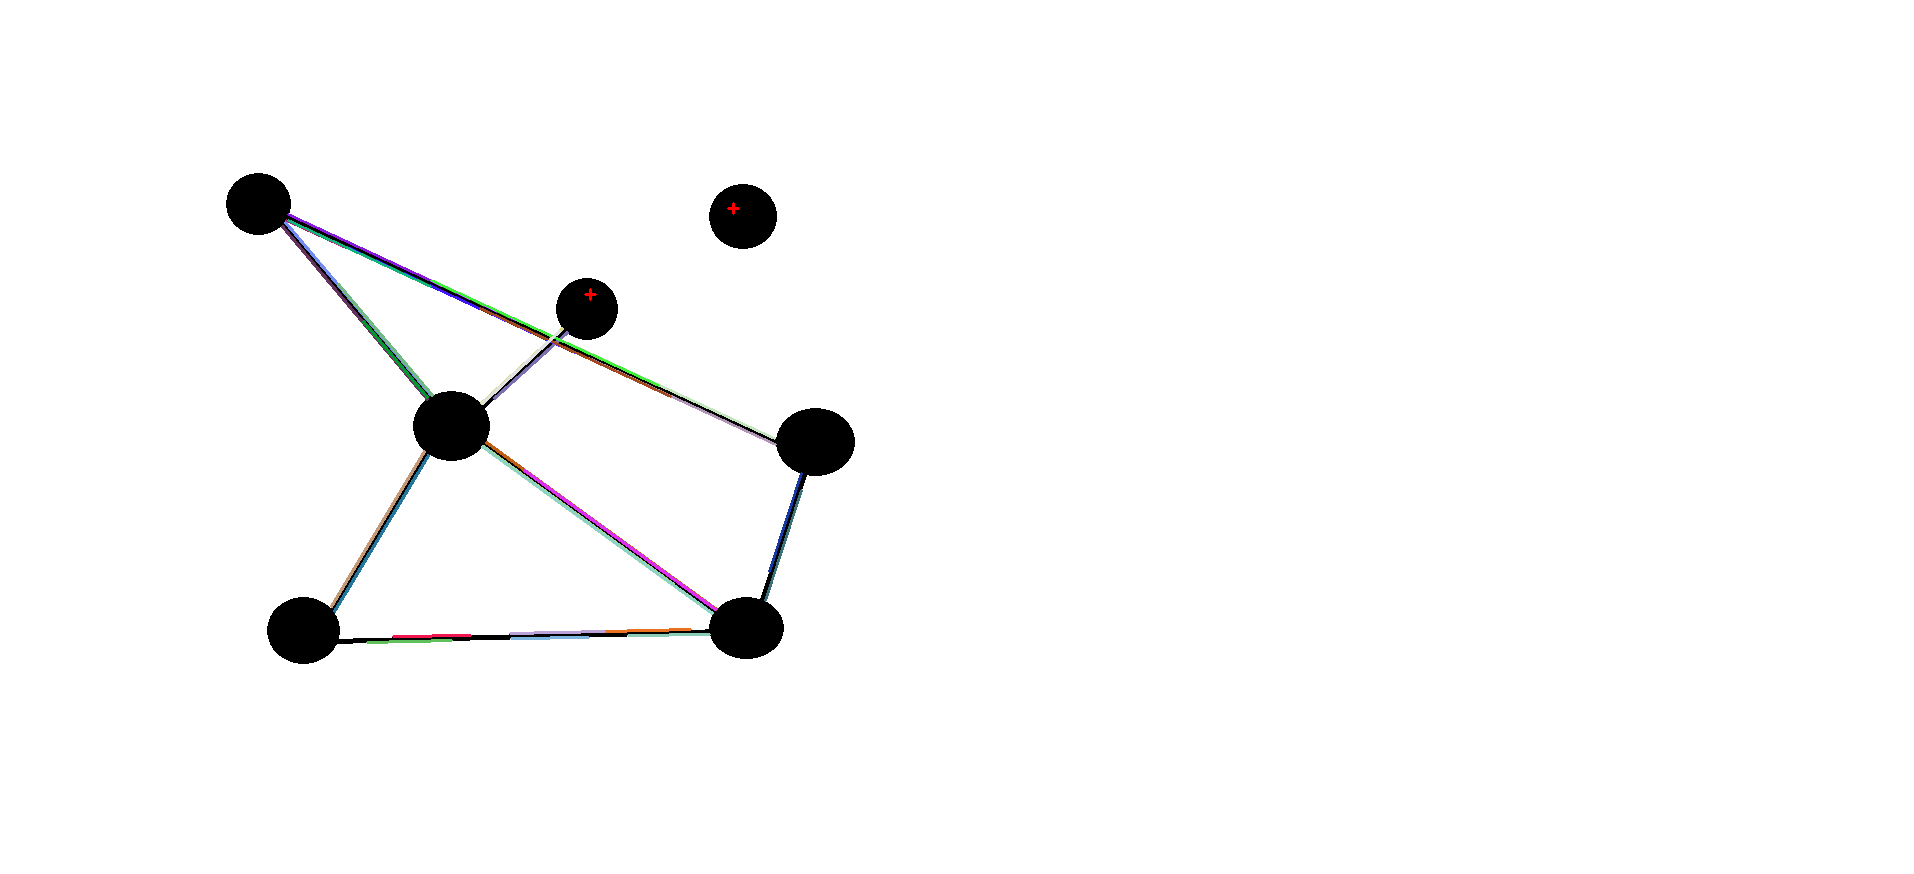
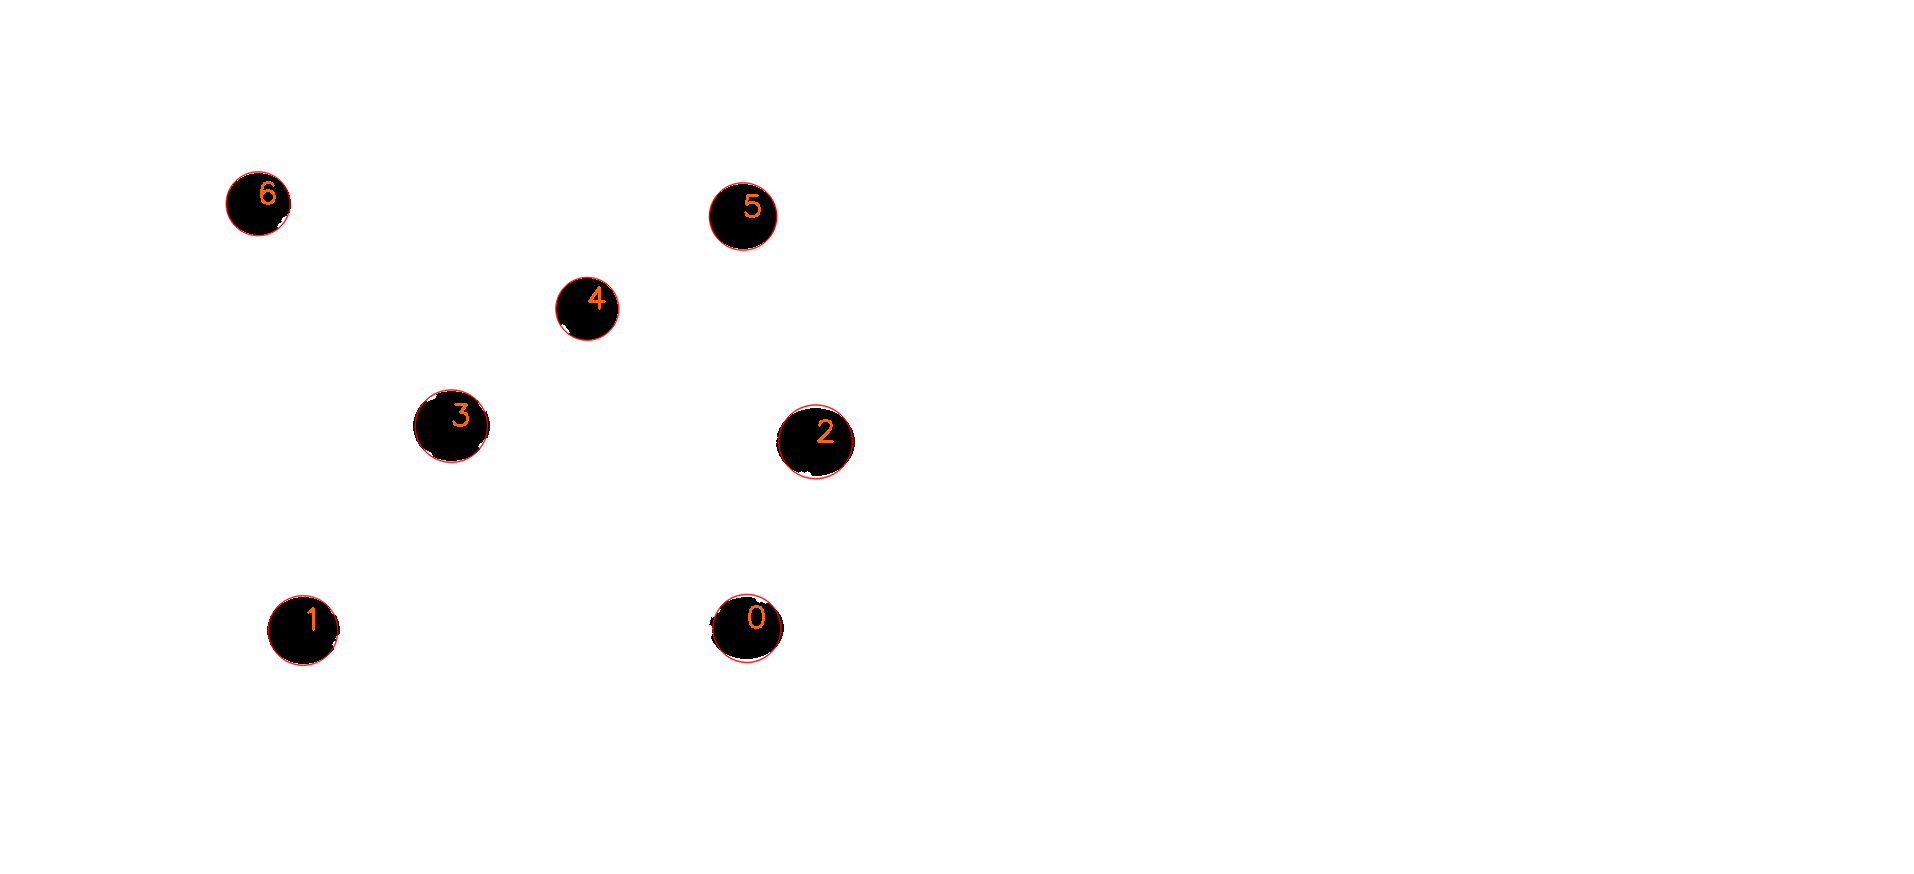
better line recognition

diff --git a/imgToMatrix.py b/imgToMatrix.py
@@ -8,14 +8,14 @@ def detectLines(gray_img):
     high_threshold = 150
     edges = cv2.Canny(gray_img, low_threshold, high_threshold)
 
-    lines = cv2.HoughLinesP(edges, 1, np.pi/180, 50, minLineLength=50, maxLineGap=10)
+    lines = cv2.HoughLinesP(edges, 1, np.pi/200, 50, minLineLength=30, maxLineGap=40)
 
     return lines
 
 def deleteLines(lines, img):
     for line in lines:
         x1, y1, x2, y2 = line[0]
-        cv2.line(img, (x1, y1), (x2, y2), (255, 255, 255), 8)
+        cv2.line(img, (x1, y1), (x2, y2), (255, 255, 255), 7)
 
 def detectCircles(img):
     params = cv2.SimpleBlobDetector_Params()
@@ -88,6 +88,10 @@ def edgesLink(edge1, edge2, threshold):
 def checkSlope(edge1, edge2, threshold):
     x1, y1, x2, y2 = edge1[0]
     x3, y3, x4, y4 = edge2[0]
+    if x1 == x2:
+        x1 += 0.00000001
+    if x3 == x4:
+        x3 += 0.00000001
     slope1 = (y2-y1)/(x2-x1)
     slope2 = (y4-y3)/(x4-x3)
     if abs(slope1 - slope2) < threshold:
@@ -117,33 +121,32 @@ def createMatrix(circles, edges):
                     matrix[i][j] = 1
                     matrix[j][i] = 1
                     break
-                
-
-                        
     return matrix
 
 def main():
-    # Read image
-    im = cv2.imread("images/graphTest.png")
-    gray = cv2.cvtColor(im, cv2.COLOR_BGR2GRAY)
 
-    # Detect and delete lines
+    inputFile = "images/patrickGraph.png"
+    # Read image
+    im = cv2.imread(inputFile, cv2.IMREAD_GRAYSCALE)
+
+    # Detect lines
     graphLinks = detectLines(im)
 
     # Get array from ndarray
     graphLinks = graphLinks.tolist()
 
+    # Delete lines from image
     deleteLines(graphLinks, im)
 
-    # Show image
-    cv2.imwrite('images/graphTestResult.png', im)
+    # Write image with deleted lines
+    cv2.imwrite('images/patrickGraphTestResult.png', im)
 
     # Detect circles o new image
     circles = detectCircles(im)
 
     # Draw detected circles
     circleImage = deepcopy(im)
-    drawCircles(circles, circleImage, "images/graphTestResult.png")
+    drawCircles(circles, circleImage, "images/patrickGraphtestResult.png")
 
     matrix = createMatrix(circles, graphLinks)
     print(matrix)

diff --git a/lineDetectionTest.py b/lineDetectionTest.py
@@ -11,7 +11,7 @@ def deleteLines(edgeLines, img):
 
 
 if __name__ == '__main__':
-    img = cv2.imread('images/graphTest.png')
+    img = cv2.imread('images/patrickGraph.png')
     gray = cv2.cvtColor(img,cv2.COLOR_BGR2GRAY)
 
     low_threshold = 10
@@ -20,7 +20,7 @@ if __name__ == '__main__':
 
     line_img = np.copy(img)*0 # creating a blank to draw lines on
 
-    edgeLines = cv2.HoughLinesP(edges, 1, np.pi/180, 50, minLineLength=50, maxLineGap=10)
+    edgeLines = cv2.HoughLinesP(edges, 1, np.pi/200, 50, minLineLength=50, maxLineGap=40)
 
     # deleteLines(edgeLines, img)
     for line in edgeLines:
@@ -32,6 +32,6 @@ if __name__ == '__main__':
     
 
     cv2.imshow('img', img)
-    cv2.imwrite('images/graphTestResult.png', img)
+    cv2.imwrite('images/patrickGraphTestResult.png', img)
     cv2.waitKey(0)
     cv2.destroyAllWindows()

diff --git a/lineDetectionTestV2.py b/lineDetectionTestV2.py
@@ -1,0 +1,1 @@
+# detect (almost) straight lines in an image
